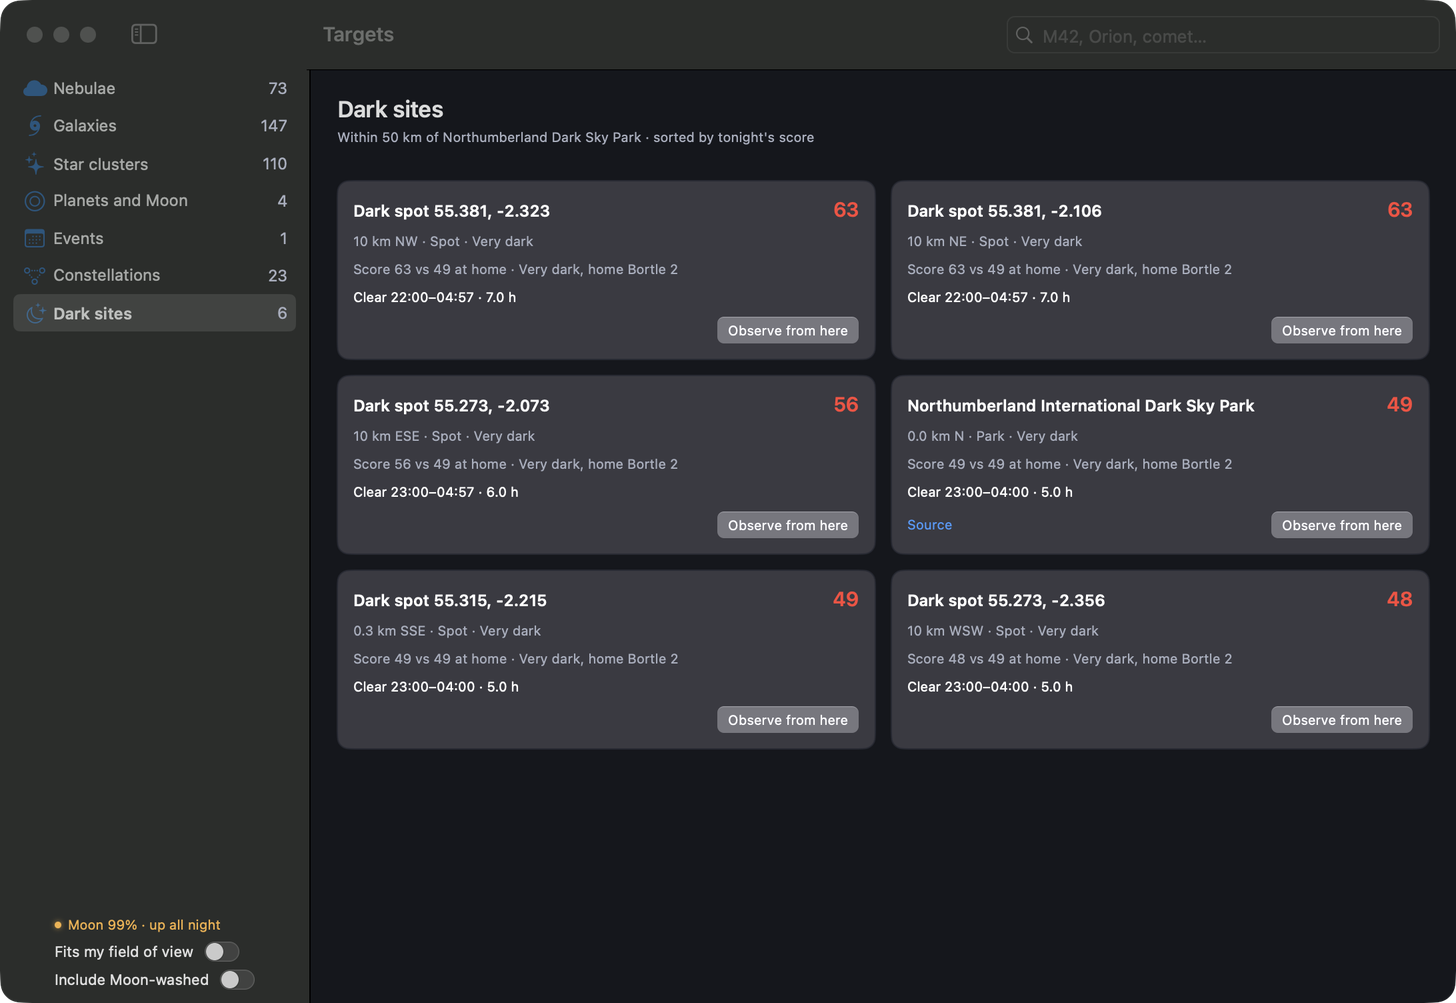
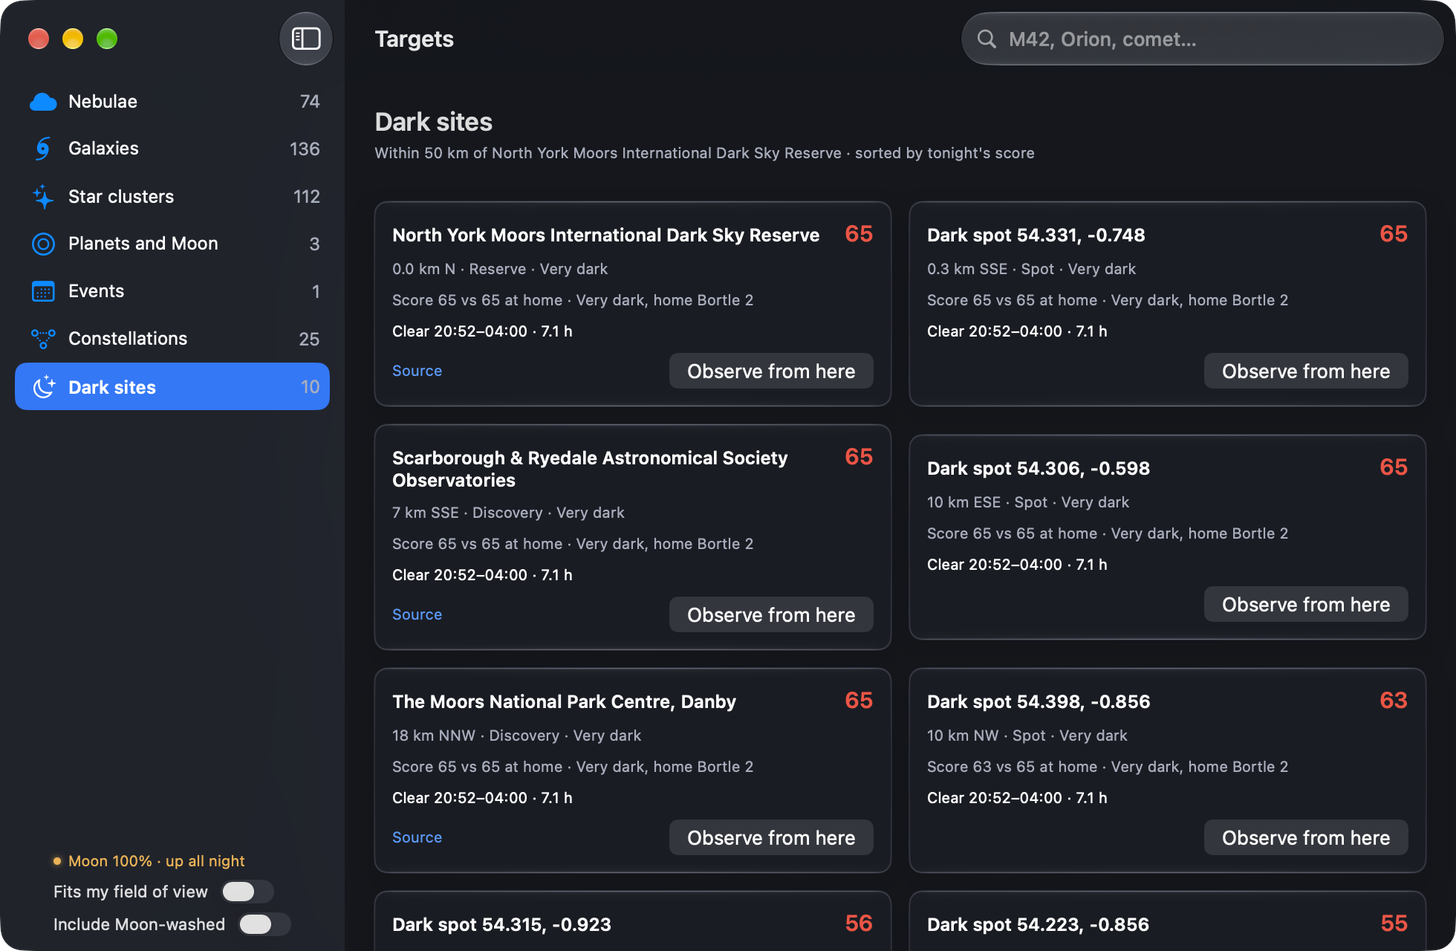
docs: README screenshots from 1.0, at the North York Moors, with a constellation page (#15)

diff --git a/README.md b/README.md
@@ -6,15 +6,19 @@
 
 Silent macOS menu-bar app: tells you when tonight is clear enough for a long imaging session, and what to point at.
 
-<img src="docs/images/screenshot-popover.png" width="360" alt="The Nightwatch popover: tonight's sky score of 49, a clear window from 23:00 to 04:00, clear sky by hour, darkness, Moon, seeing, wind, dew risk and transparency, and the three best targets">
+<img src="docs/images/screenshot-popover.png" width="360" alt="The Nightwatch popover: tonight's sky score of 65, a clear window from 20:52 to 04:00, clear sky by hour, darkness, Moon, seeing, wind, dew risk and transparency, and the three best targets">
 
 ## Screenshots
 
-Taken at Northumberland Dark Sky Park.
+Taken at the North York Moors International Dark Sky Reserve with version 1.0.
 
 **A target's page:** the survey photo fills the window, the dashed box is your field of view, and "How to shoot this" gives your telescope's filter, exposure and frames.
 
 <img src="docs/images/screenshot-target.jpg" width="728" alt="The NGC 7000 North America Nebula page: a sky-survey photo with a dashed field-of-view box, the How to shoot this card for a DWARF Mini, and the altitude through tonight's clear window">
+
+**All 88 constellations:** each one drawn as a figure over its stars, with when it is best tonight.
+
+<img src="docs/images/screenshot-constellation.jpg" width="728" alt="The Cygnus page: the swan drawn over its stars, with tonight's best time, altitude and Moon separation">
 
 **Dark sites:** darker places nearby, scored for tonight against home.
 
